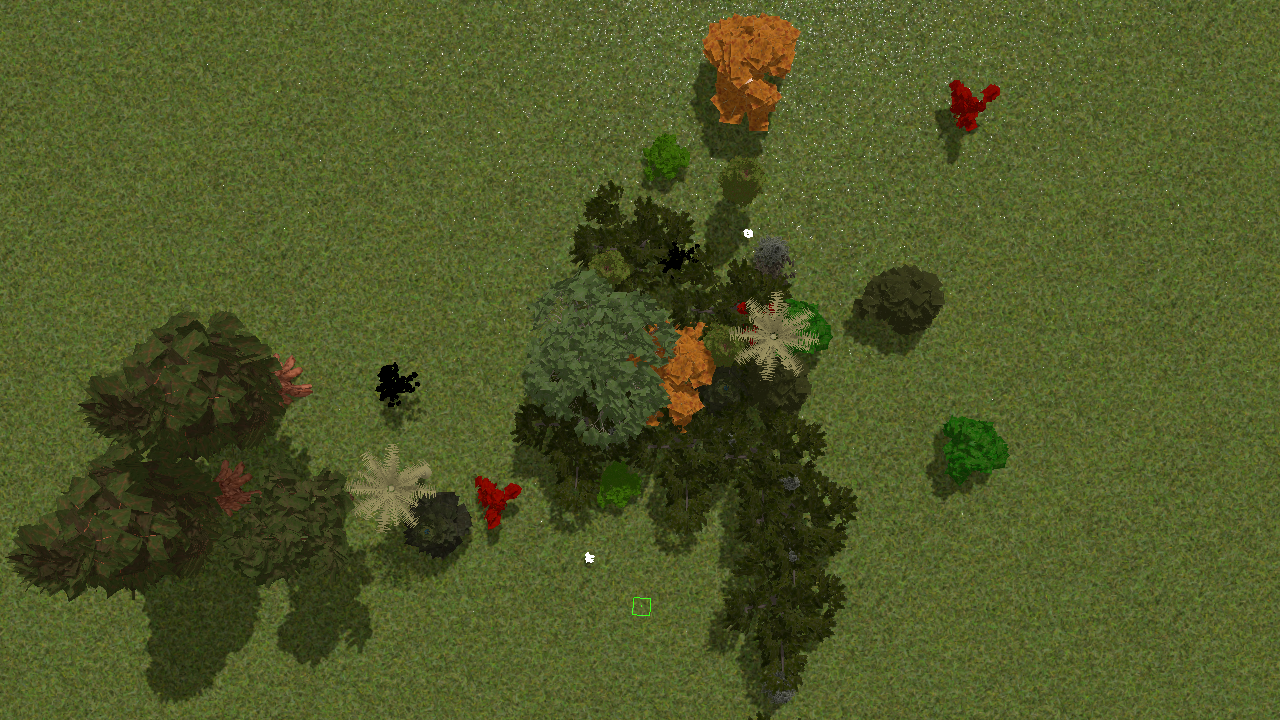
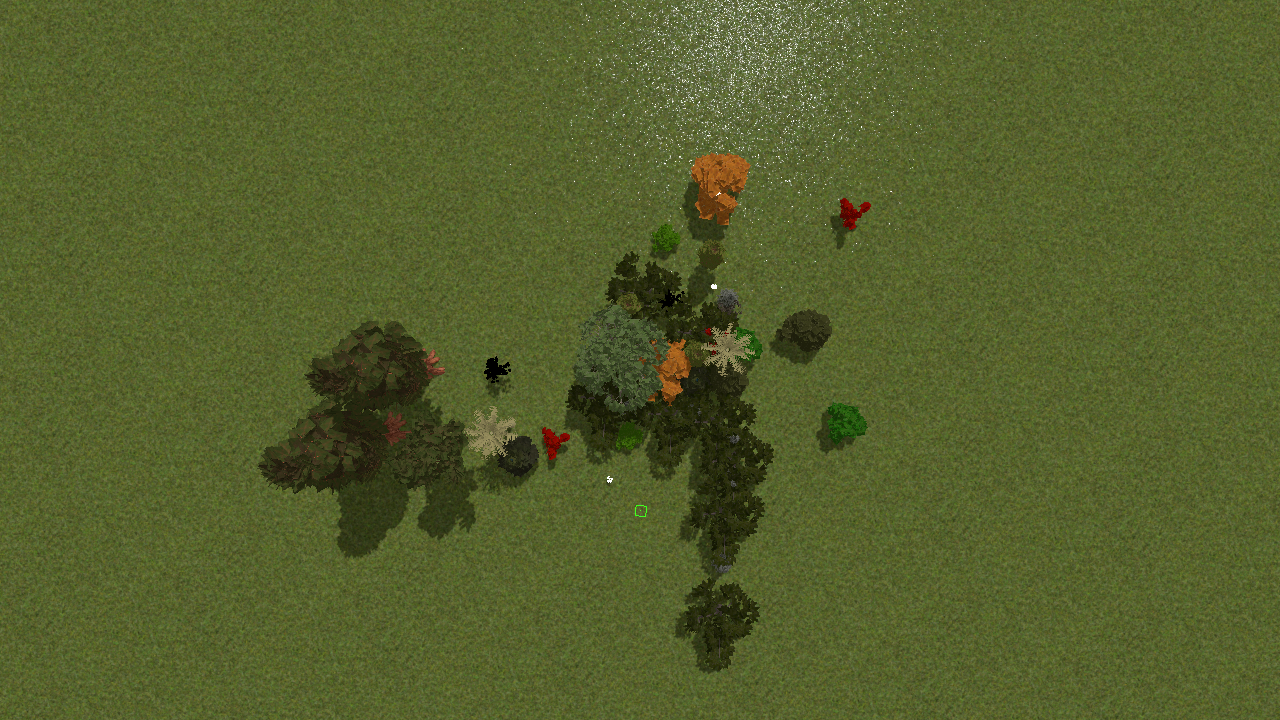
Added sim coords

diff --git a/pdal_transform.py b/pdal_transform.py
@@ -32,9 +32,13 @@ def affine2pdal(_affine):
     return " ".join(map(str, matrix_3d.flatten()))
 
 
+# ORIGIN_LAT = 45.3777769  # Latitude in degrees
+# ORIGIN_LONG = -71.9403259  # Longitude in degrees
+# YAW = math.radians(90) - math.radians(90)
+
 ORIGIN_LAT = 45.377777  # Latitude in degrees
 ORIGIN_LONG = -71.940326  # Longitude in degrees
-YAW = math.radians(15)
+YAW = math.radians(92.82) - math.radians(90)
 
 meters_per_degree_lon, meters_per_degree_lat = get_meters_per_degree_at_coord(ORIGIN_LONG, ORIGIN_LAT)
 
@@ -114,7 +118,7 @@ pipeline_json = """
     {
         "type": "writers.las",
         "a_srs": "EPSG:4326",
-        "filename": "output.las",
+        "filename": "output_sim.las",
         "scale_x":"0.0000001",
         "scale_y":"0.0000001",
         "scale_z":"0.0000001"
